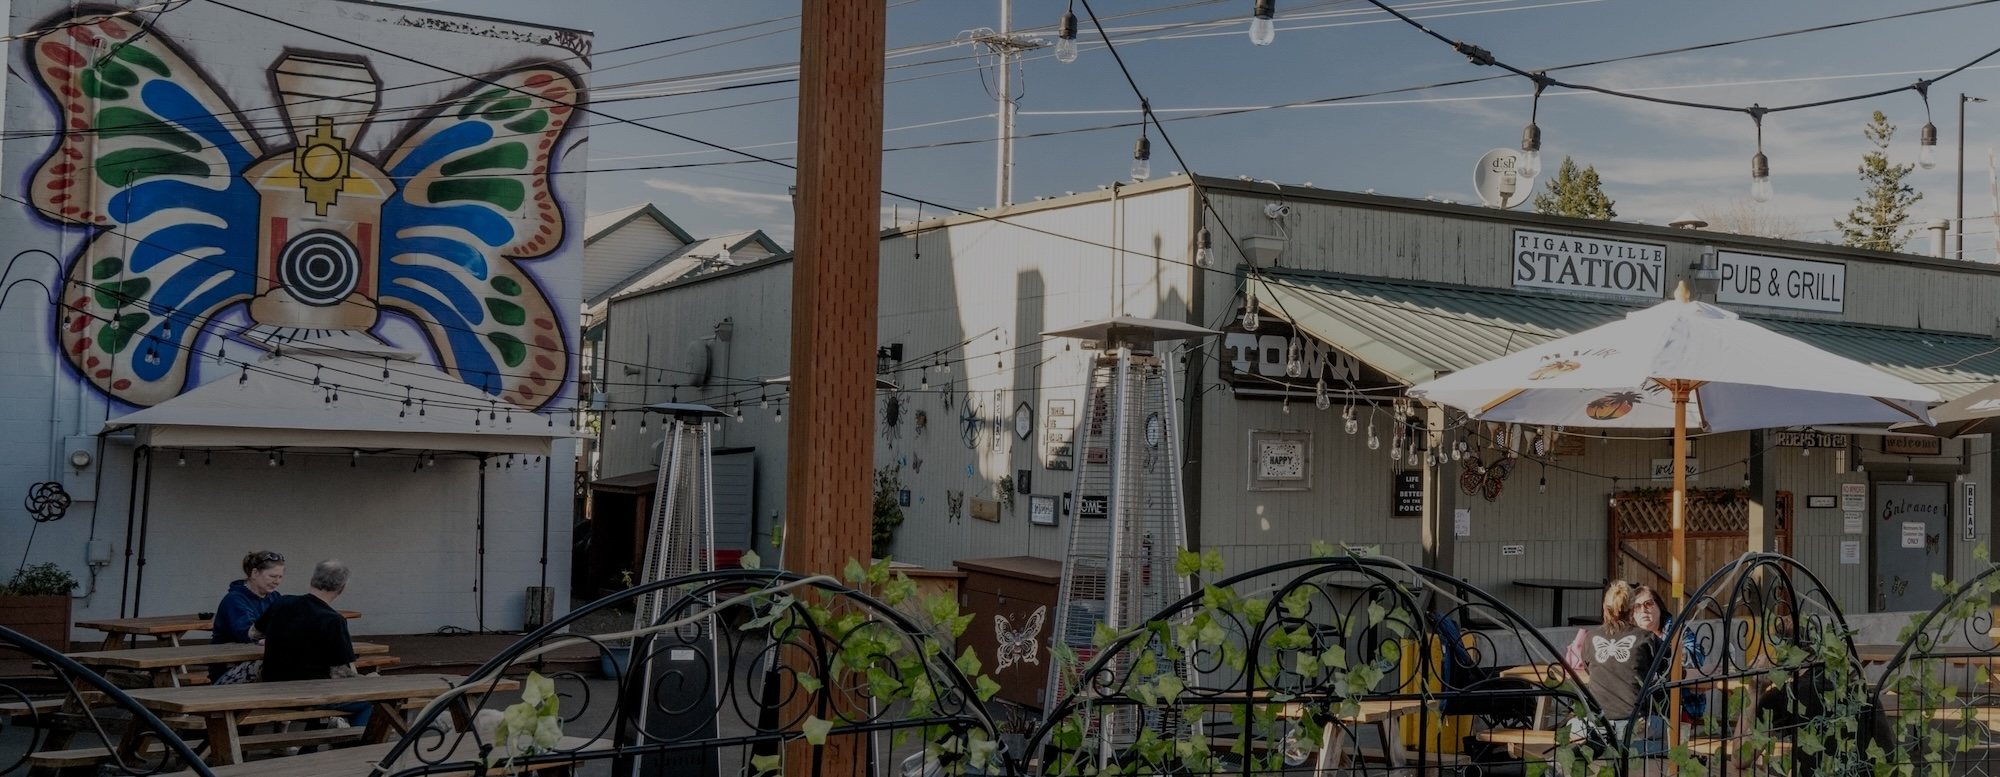
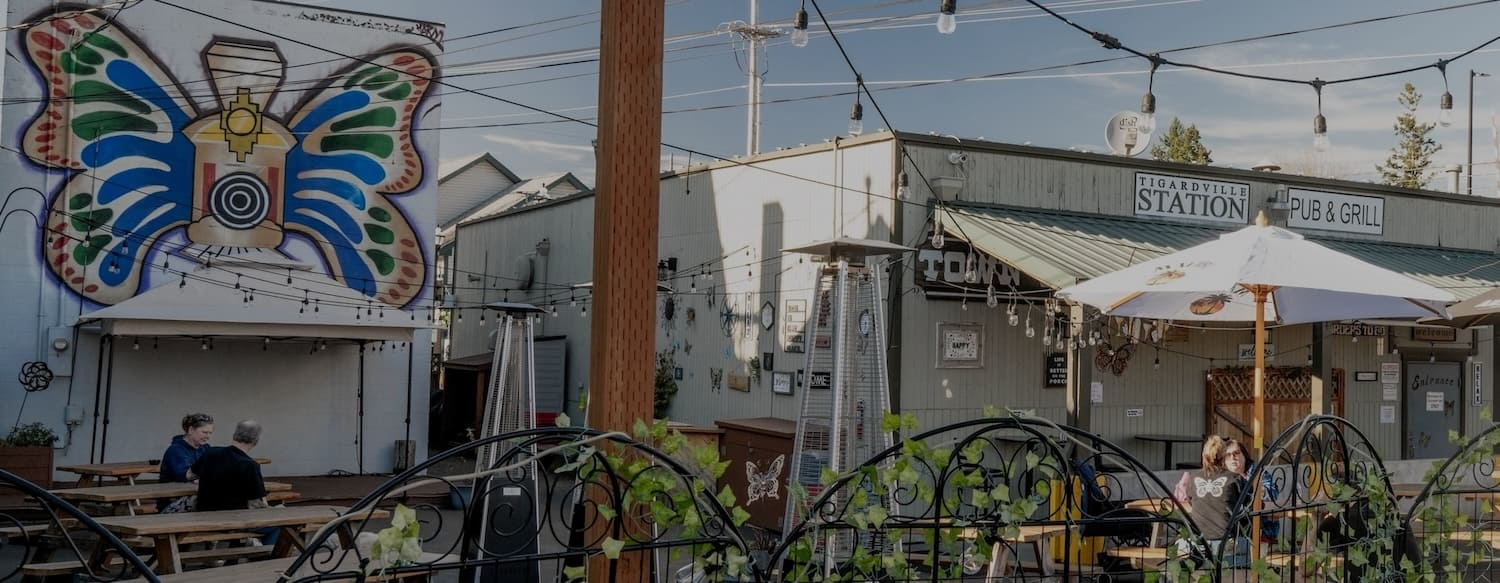
updated and compressed home page images

diff --git a/src/app/page.js b/src/app/page.js
@@ -2,8 +2,8 @@
 import Image from 'next/image';
 import styles from './page.module.css';
 import fullLogo from '/public/fullLogo.png';
-import kitchenPic from '/public/images/kitchen.jpg';
-import buildingPic from '/public/images/building.jpg';
+import kitchenPic from '/public/images/kitchen2.png';
+import buildingPic from '/public/images/build2.png';
 import Link from 'next/link';
 import unitsIcon from '/public/icons/units3.png';
 import busIcon from '/public/icons/bus.png';

diff --git a/src/app/page.module.css b/src/app/page.module.css
@@ -216,7 +216,7 @@
 }
 
 .thirdSection {
-    background-image: url('/images/pub3.jpg');
+    background-image: url('/images/pub4.jpg');
     width: 100%;
     height: 300px;
     background-size: cover;
